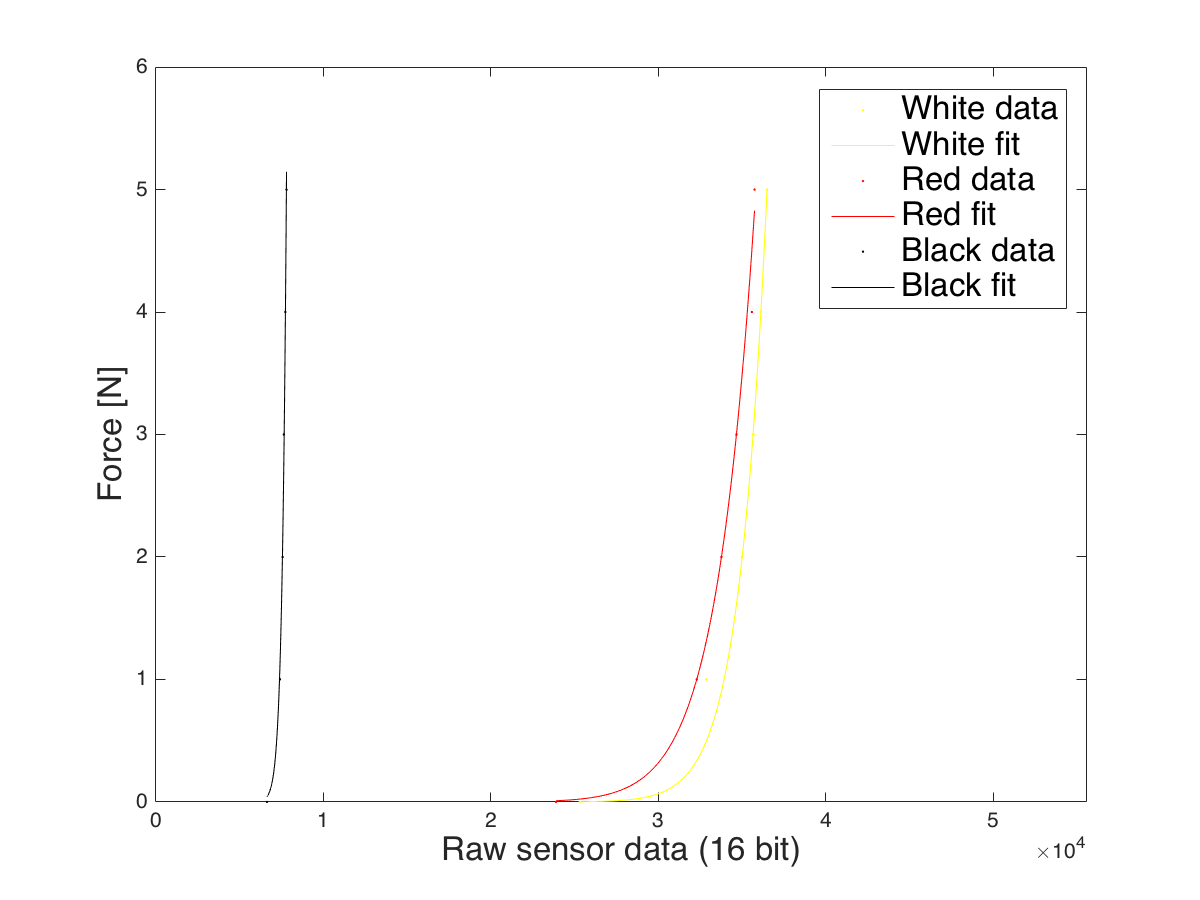
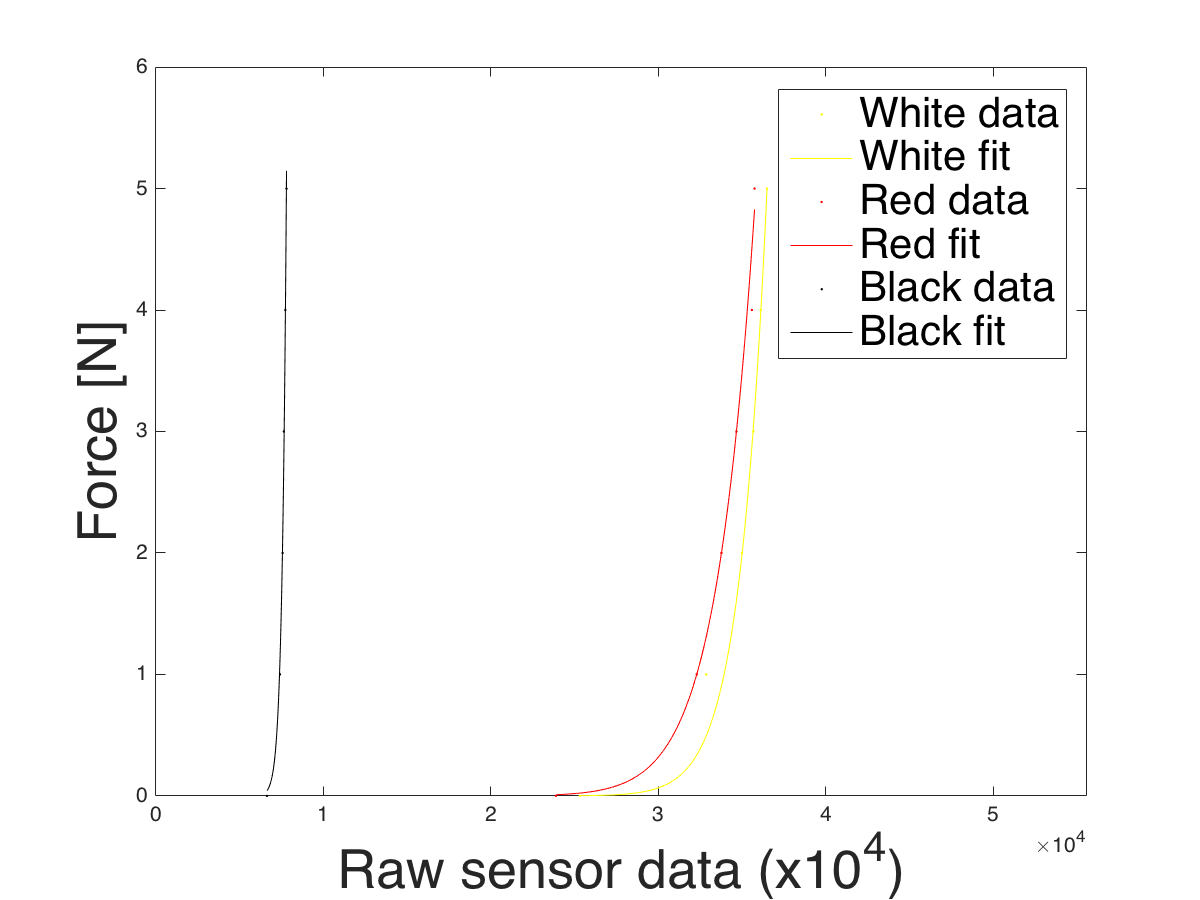
Figure 9 updated

diff --git a/MATLAB/scripts/plot_contactpoint.m b/MATLAB/scripts/plot_contactpoint.m
@@ -1,5 +1,5 @@
 h=figure(1);
-data = load('contactpoint_pan.txt');
+data = load('../../objectscan_data/contactpoint_pan.txt');
 
 subplot(1,2,1)
 Z = [1:7];
@@ -7,7 +7,7 @@ Z = repmat(Z,size(data,1),1);
 time = [1:1:size(data,1)];
 time = repmat(time',1,7);
 mesh(Z,time,data(:,1:7));
-set(title('Left finger'),'FontSize',14);
+%set(title('Left finger'),'FontSize',14);
 hold on
 pointA = [1,49,6707];
 pointB = [7,49,6946];
@@ -15,9 +15,9 @@ pointC = [5,49,18860];
 points=[pointA' pointB' pointC'];
 %fill3(points(1,:),points(2,:),points(3,:),'r')
 %alpha(0.3)
-set(xlabel('Sensor'),'FontSize',14);
-set(ylabel('Time [0.1s]'),'FontSize',14);
-set(zlabel('Raw value'),'FontSize',14);
+set(xlabel('Sensor (left)'),'FontSize',18);
+set(ylabel('Time [0.1s]'),'FontSize',18);
+set(zlabel('Raw value'),'FontSize',18);
 set(gca,'XTick',1:7)
 
 subplot(1,2,2)
@@ -29,11 +29,12 @@ pointC = [5,49,18860];%you might wanna change this values
 points=[pointA' pointB' pointC'];
 %fill3(points(1,:),points(2,:),points(3,:),'r')
 %alpha(0.3)
-set(title('Right finger'),'FontSize',14);
-set(xlabel('Sensor'),'FontSize',14);
-set(ylabel('Time [0.1s]'),'FontSize',14);
+%set(title('Right finger'),'FontSize',14);
+set(xlabel('Sensor (right)'),'FontSize',18);
+%set(ylabel('Time [0.1s]'),'FontSize',18);
 set(gca,'XTick',1:7)
-saveas(h,'panhandle1','png')
+set(gca,'XTickLabel',get(gca,'XTickLabel'),'fontsize',18)
+saveas(h,'Figure9a','png')
 
 h=figure(2);
 X=time(:,1);
@@ -43,25 +44,40 @@ fdev=fnder(f.p,1);
 y_prime=ppval(fdev,X);
 plot(f,X,Y); hold on;
 plot(X,y_prime);
-set(legend('Raw data','Spline interpolation','First derivative'),'Location','NorthWest','FontSize',14);
-set(xlabel('Time [0.1s]'),'FontSize',14);
-set(ylabel('Raw value'),'FontSize',14);
+set(legend('Raw data','Spline interpolation','First derivative'),'Location','NorthWest','FontSize',18);
+set(xlabel('Time [0.1s]'),'FontSize',18);
+set(ylabel('Raw value'),'FontSize',18);
 
 ext=X(y_prime==max(y_prime));
 plot([ext ext],[0 Y(ext)],'r--')
 plot([0 ext],[Y(ext) Y(ext)],'r--')
-saveas(h,'panhandle2','png')
+set(gca,'XTickLabel',get(gca,'XTickLabel'),'fontsize',18)
+saveas(h,'Figure9b','png')
 
 
 h=figure(3)
 load 8_1_6mm.mat
-plot(data_black(3,:)'), hold on
-set(gca,'XTick',1:12)
-set(gca,'XTickLabel',{'6cm','5cm','4cm','3cm','2cm','1cm','0cm','1N ','2N ','3N ','4N ','5N '})
-plot([7 7],[0 data_black(3,7)],'r--')
-plot([0 7],[data_black(3,7) data_black(3,7)],'r--');
-set(title('Black Paper @120mA, 6mm PDMS|8:1'),'FontSize',14);
+%plot(data_black(3,:)'), hold on
+%set(gca,'XTick',1:12)
+%set(gca,'XTickLabel',{'6cm','5cm','4cm','3cm','2cm','1cm','0cm','1N ','2N ','3N ','4N ','5N '})
+%plot([7 7],[0 data_black(3,7)],'r--')
+%plot([0 7],[data_black(3,7) data_black(3,7)],'r--');
+%set(title('Black Paper @120mA, 6mm PDMS|8:1'),'FontSize',14);
 
-set(xlabel('Distance / Force'),'FontSize',14);
-set(ylabel('Raw value'),'FontSize',14);
-saveas(h,'panhandle3','png')
+subplot(1,2,1);
+plot(data_black(3,1:7)'), hold on
+set(gca,'XTick',1:7)
+set(gca,'XTickLabel',{'6cm','5cm','4cm','3cm','2cm','1cm','0cm'})
+axis([1 7 0 20000])
+set(xlabel('Distance'),'FontSize',18);
+set(ylabel('Raw value'),'FontSize',18);
+set(gca,'XTickLabel',get(gca,'XTickLabel'),'fontsize',16)
+subplot(1,2,2)
+plot(data_black(3,7:12)'), hold on
+set(gca,'XTick',1:6)
+set(gca,'XTickLabel',{'ON','1N ','2N ','3N ','4N ','5N '})
+axis([1 6 0 20000])
+set(xlabel('Force'),'FontSize',18);
+set(gca,'XTickLabel',get(gca,'XTickLabel'),'fontsize',16)
+
+saveas(h,'Figure9c','png')

diff --git a/MATLAB/scripts/plot_forcecalib.m b/MATLAB/scripts/plot_forcecalib.m
@@ -22,13 +22,13 @@ p=plot(f,Y,X); hold on;
 p(2).Color='Black';
 p(1).Color='Black';
 
-set(legend('White data','White fit','Red data','Red fit','Black data','Black fit'),'FontSize',16);
+set(legend('White data','White fit','Red data','Red fit','Black data','Black fit'),'FontSize',20);
 %set(title('Calibration of force PDMS|8:1, 6mm'),'FontSize',14);
-set(xlabel('Raw sensor data (16 bit)'),'FontSize',16);
-set(ylabel('Force [N]'),'FontSize',16);
+set(xlabel('Raw sensor data (x10^4)'),'FontSize',26);
+set(ylabel('Force [N]'),'FontSize',26);
 
 axis([0 55550 0 6])
 
 saveas(h','Figure6d','png')
 
-set(gca,'XTickLabel',get(gca,'XTickLabel'),'fontsize',14)
+set(gca,'XTickLabel',get(gca,'XTickLabel'),'fontsize',20)

diff --git a/MATLAB/scripts/fit_individualsensor.m b/MATLAB/scripts/fit_individualsensor.m
@@ -1,5 +1,5 @@
-D=load('14_sensorwhiteppr_PDMS.txt');
-B=load('baseValues_14sensors.txt');
+D=load('../../misc/14_sensorwhiteppr_PDMS.txt');
+B=load('../../misc/baseValues_14sensors.txt');
 B=repmat(mean(B),size(D,1),1);
 D=10*log10(D./B);
 

diff --git a/MATLAB/scripts/fit_oppositesensor.m b/MATLAB/scripts/fit_oppositesensor.m
@@ -1,5 +1,5 @@
-D=load('14_sensorwhiteppr_PDMS.txt');
-B=load('baseValues_14sensors.txt');
+D=load('../../misc/14_sensorwhiteppr_PDMS.txt');
+B=load('../../misc/baseValues_14sensors.txt');
 B=repmat(mean(B),size(D,1),1);
 D=10*log10(D./B);
 

diff --git a/MATLAB/scripts/plotallfigures.m b/MATLAB/scripts/plotallfigures.m
@@ -2,3 +2,6 @@ addpath ../workspaces
 
 % Create Figure 6d
 plot_forcecalib;
+
+% Create Figures 9a-c
+plot_contactpoint;
